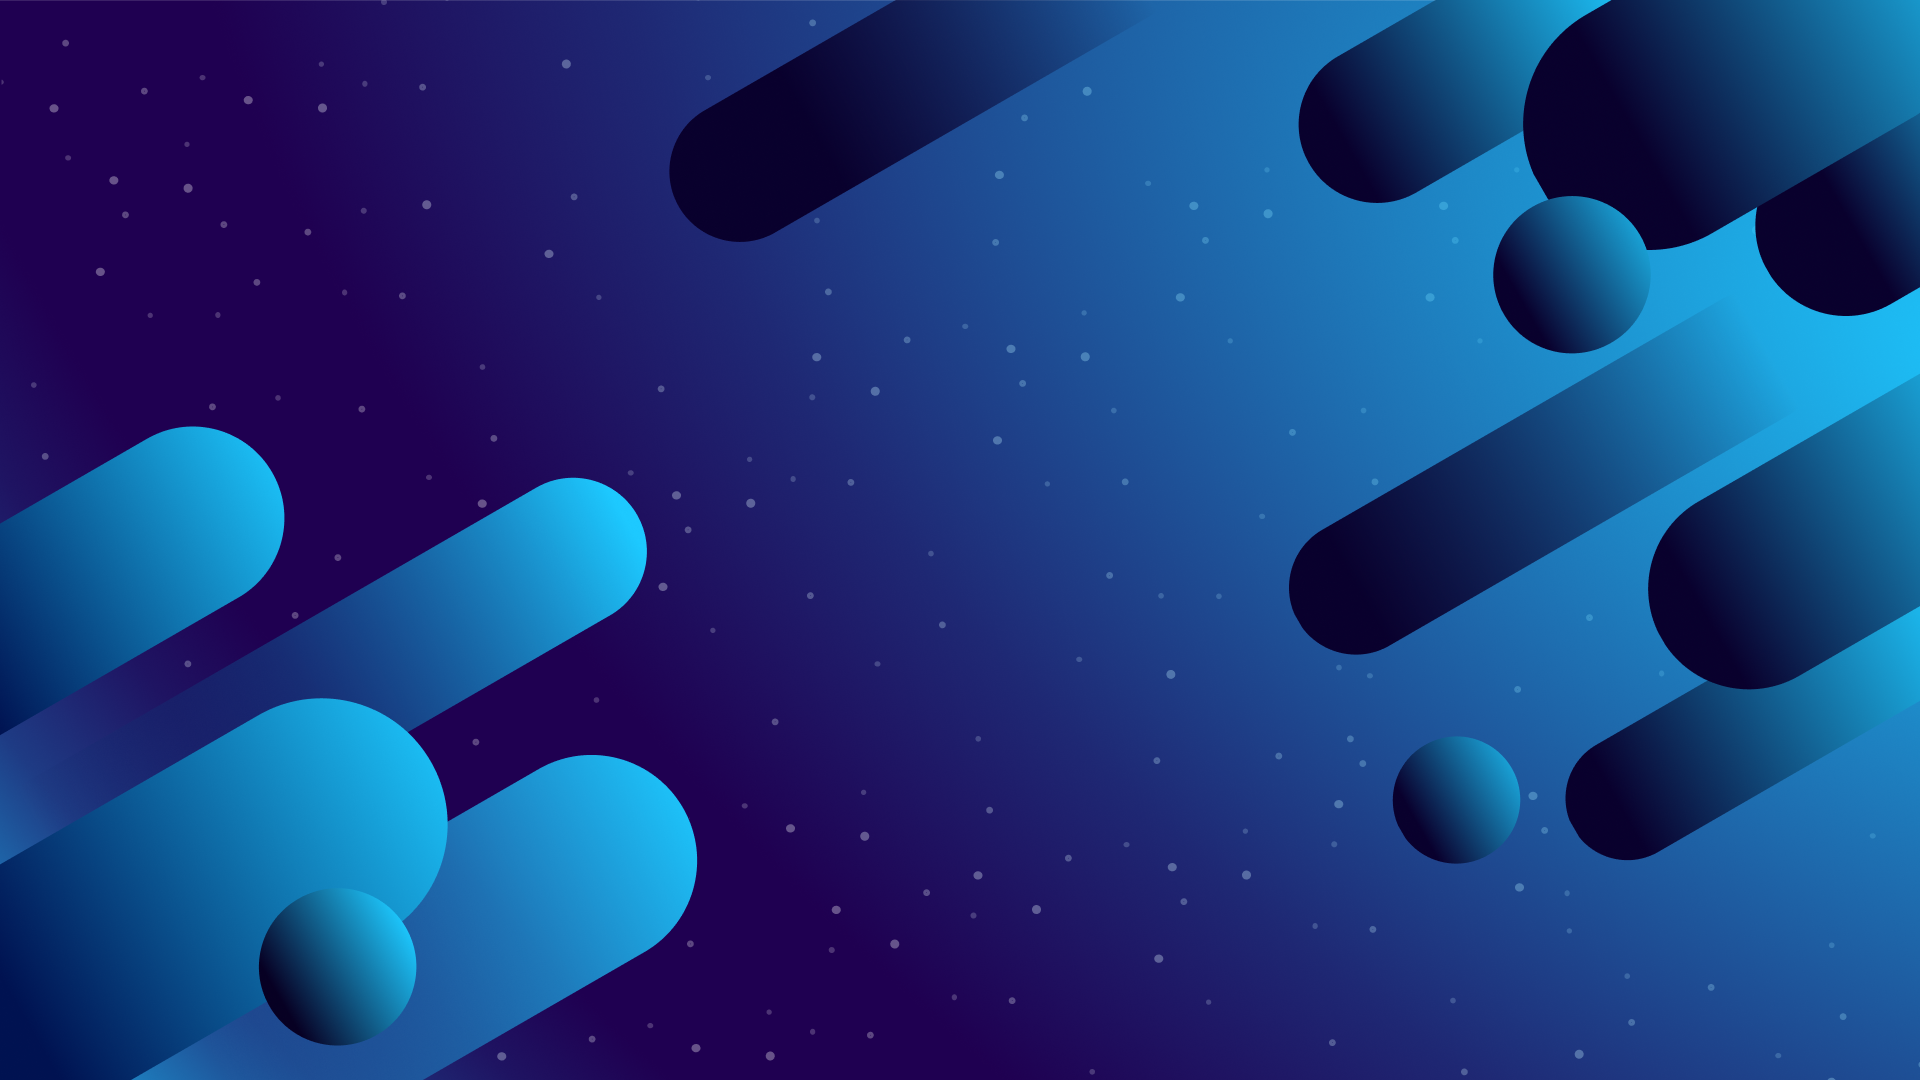
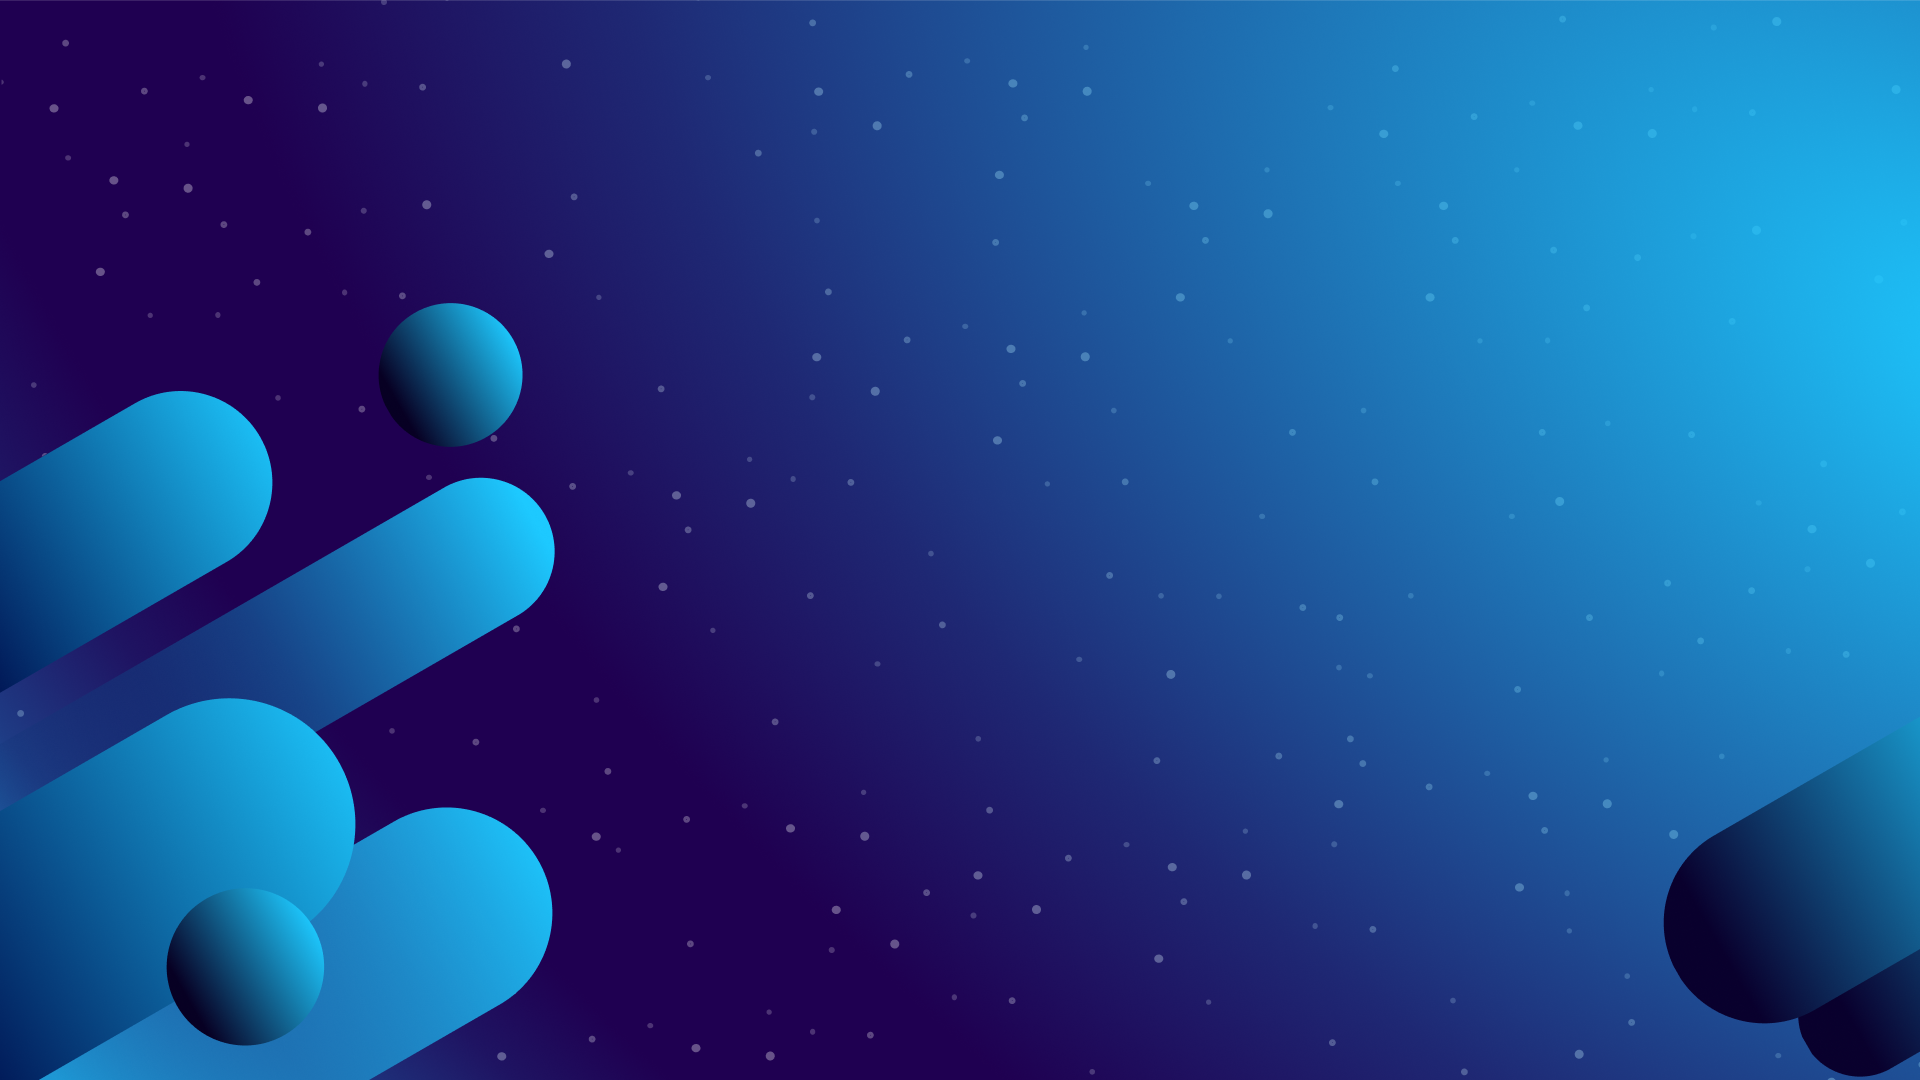
Update bgs

diff --git a/src/graphics/couch/couch.css b/src/graphics/couch/couch.css
@@ -1,3 +1,7 @@
+.graphic {
+  background-image: url('../assets/wasd-bg-couch.png');
+}
+
 .couch-component-container {
   display: flex;
   flex-direction: row;

diff --git a/src/graphics/break/break.css b/src/graphics/break/break.css
@@ -1,3 +1,7 @@
+.graphic {
+  background-image: url('../assets/wasd-bg-couch.png');
+}
+
 .break-container {
   width: 100%;
   height: 100%;

diff --git a/src/graphics/fourThree/fourThree.css b/src/graphics/fourThree/fourThree.css
@@ -1,3 +1,7 @@
+.graphic {
+  background-image: url('../assets/wasd-bg-4-3.png');
+}
+
 .game {
   height: 100%;
   width: auto;
